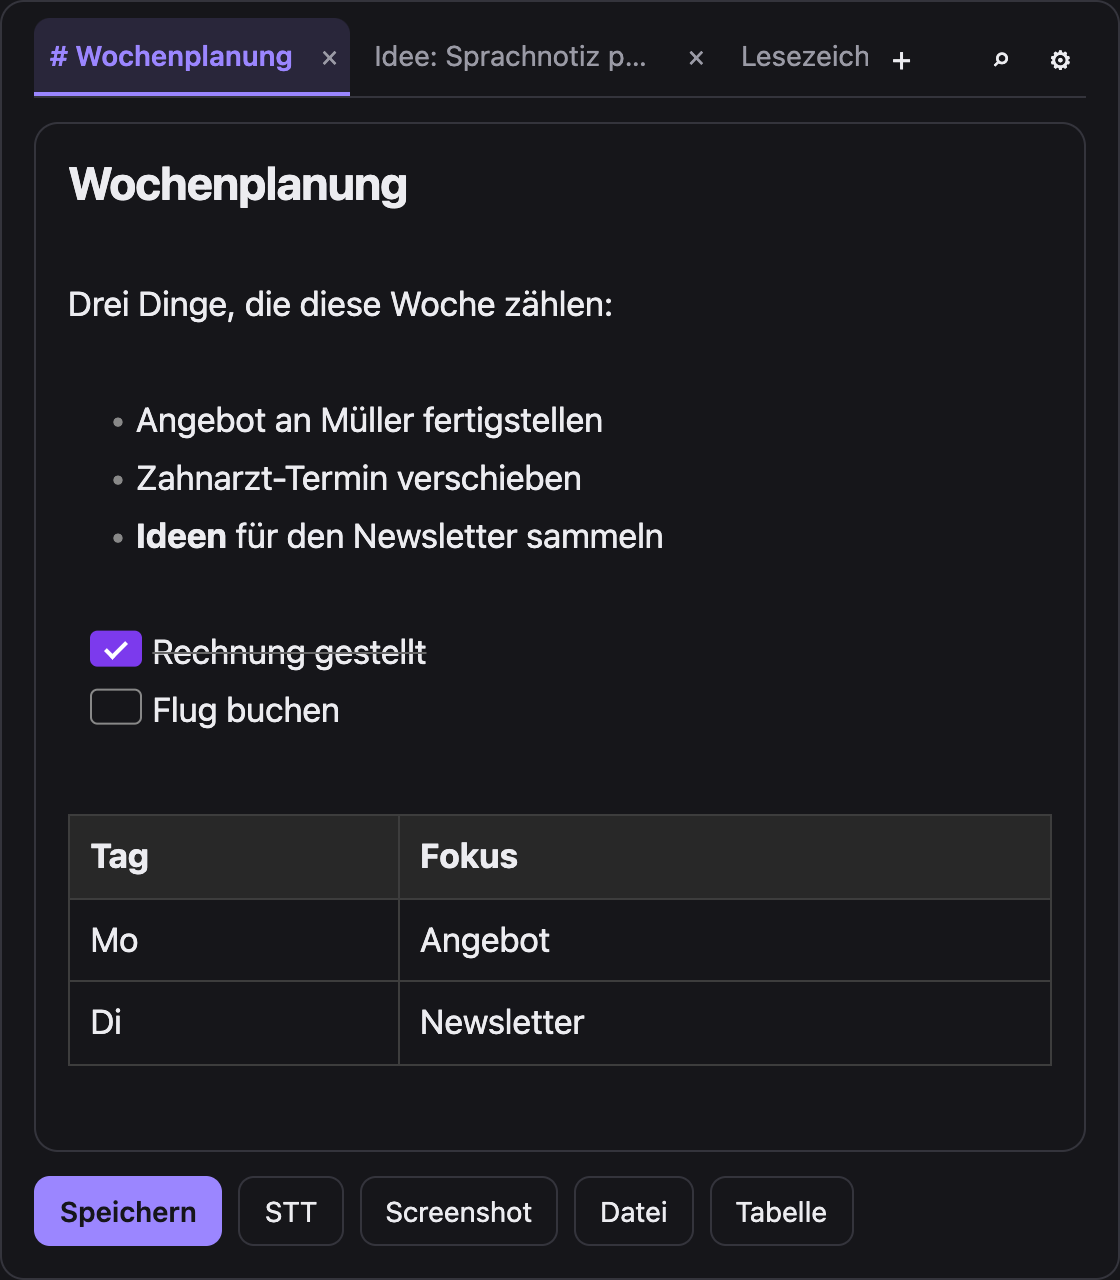
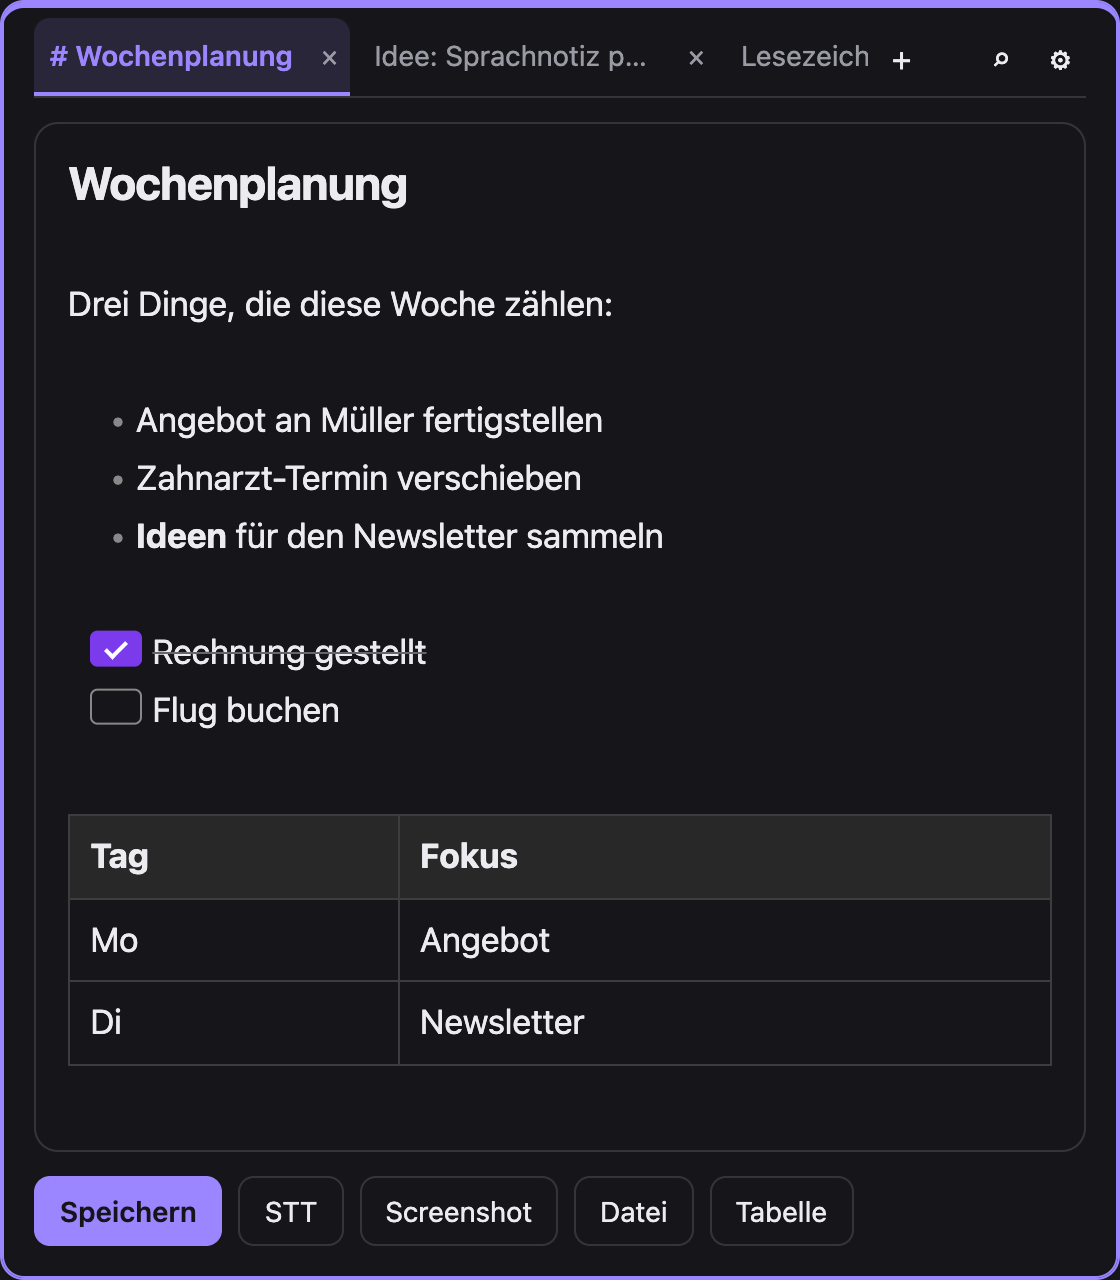
desktop: clear focus indicator (accent frame and top bar when focused, dimmed content when not)
Focus comes from the native window focus event (reliable for the non-activating panel) plus DOM
focus/blur for browser and tests. README screenshots regenerated.

Claude-Session: https://claude.ai/code/session_018XhGfWNt2dpMFyuKcD1gPZ

Changed region(s): [[0.0, 0.0, 1.0, 1.0]]

diff --git a/apps/desktop/src/App.tsx b/apps/desktop/src/App.tsx
@@ -20,6 +20,21 @@ const configured = async () => !!localStorage.getItem(URL_KEY) && !!(await token
 
 export function App() {
   const [notes, setNotes] = useState(loadNotes);
+  // Whether the window has the keyboard: the frame lights up in the accent colour, an unfocused window is dimmed.
+  const [focused, setFocused] = useState(() => document.hasFocus());
+  useEffect(() => {
+    const on = () => setFocused(true);
+    const off = () => setFocused(false);
+    window.addEventListener("focus", on);
+    window.addEventListener("blur", off);
+    // The native key-window state is the reliable source for the non-activating panel; the DOM events cover the browser and tests.
+    const native = inTauri() ? import("@tauri-apps/api/window").then((m) => m.getCurrentWindow().onFocusChanged((e) => setFocused(e.payload))).catch(() => undefined) : undefined;
+    return () => {
+      window.removeEventListener("focus", on);
+      window.removeEventListener("blur", off);
+      void native?.then((unlisten) => unlisten?.());
+    };
+  }, []);
   const [settingsOpen, setSettingsOpen] = useState(false);
   const [searchOpen, setSearchOpen] = useState(false);
   const [textWidth, setTextWidth] = useState(loadTextWidth);
@@ -118,7 +133,7 @@ export function App() {
   }, [queue]);
 
   return (
-    <main style={{ "--pn-text-width": textWidth === null ? "none" : `${textWidth}px` } as React.CSSProperties}>
+    <main data-focused={focused} style={{ "--pn-text-width": textWidth === null ? "none" : `${textWidth}px` } as React.CSSProperties}>
       <header className="topbar" data-tauri-drag-region inert={modalOpen}>
         <div role="tablist" aria-label="Notizen" data-tauri-drag-region>
           {notes.notes.map((n) => (

diff --git a/apps/desktop/e2e/shell.spec.ts b/apps/desktop/e2e/shell.spec.ts
@@ -177,6 +177,21 @@ test.describe("settings modal", () => {
     await expect(page.getByRole("tab")).toHaveCount(1);
   });
 
+  test("the window shows whether it is focused: accent frame when focused, dimmed content when not", async ({ page }) => {
+    await page.goto("/");
+    const main = page.locator("main");
+    await expect(page.getByRole("tab")).toHaveCount(1);
+    await page.evaluate(() => window.dispatchEvent(new Event("focus")));
+    await expect(main).toHaveAttribute("data-focused", "true");
+    const border = () => main.evaluate((e) => getComputedStyle(e).borderTopColor);
+    const focusedBorder = await border();
+    await expect(main.locator("> header")).toHaveCSS("opacity", "1");
+    await page.evaluate(() => window.dispatchEvent(new Event("blur")));
+    await expect(main).toHaveAttribute("data-focused", "false");
+    await expect(main.locator("> header")).toHaveCSS("opacity", "0.55");
+    await expect.poll(border).not.toBe(focusedBorder); // accent frame is gone
+  });
+
   test("a rejected hotkey shows an error and keeps the previous one; a bare key is ignored", async ({ page }) => {
     await mockTauri(page, NO_WS);
     await page.addInitScript(() => Object.assign(window, { __failRegister: "Control+Alt+K" }));

diff --git a/apps/desktop/src/style.css b/apps/desktop/src/style.css
@@ -20,6 +20,11 @@ body { margin: 0; background: var(--bg); color: var(--fg); font: 14px/1.5 -apple
 /* no max-width: the editor grows with the window */
 main { position: relative; display: flex; flex-direction: column; height: 100vh; padding: 0 var(--space-4) var(--space-4); gap: var(--space-3); border: 1px solid var(--line); border-radius: var(--window-radius); overflow: hidden; background: var(--bg); }
 main > section { flex: 1; min-height: 0; }
+/* Focus indicator: accent frame plus a bar above the tabs while the window has the keyboard; dimmed content when it has not. */
+main > * { transition: opacity 0.15s ease; }
+main { transition: border-color 0.15s ease, box-shadow 0.15s ease; }
+main[data-focused="true"] { border-color: var(--accent); box-shadow: inset 0 0 0 1px var(--accent), inset 0 3px 0 var(--accent); }
+main[data-focused="false"] > * { opacity: 0.55; }
 section { display: flex; flex-direction: column; gap: var(--space-3); }
 
 /* slim top bar: window drag region (the window has no title bar) with the note tabs and the icon buttons */
